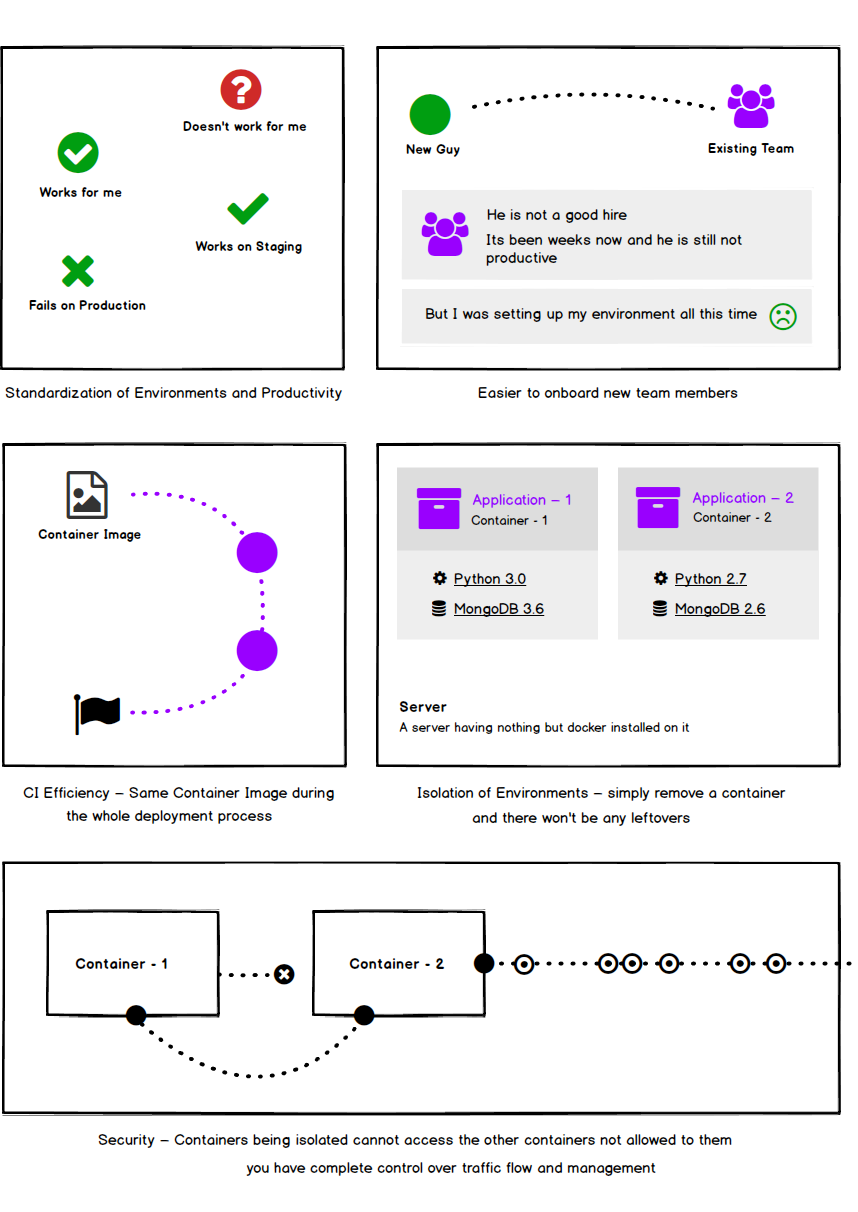
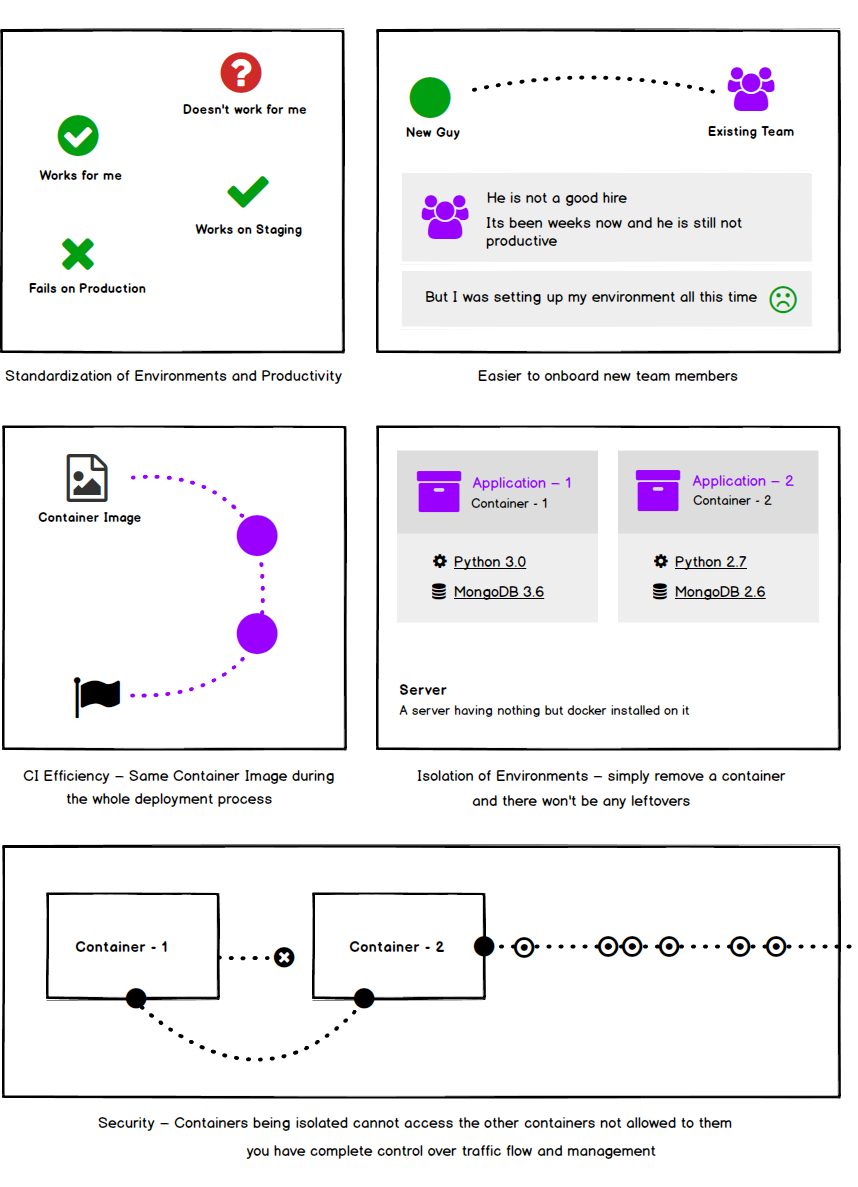
Update benefits image

diff --git a/README.md b/README.md
@@ -79,7 +79,9 @@ Docker gives you the ability to snapshot the OS into a shared image, and makes i
 
 * **Easier On-boarding** – Docker makes it easier to on-board the new team members in a sense that they do not have to spend days or weeks trying to setup the project before looking into it. All they have to do is install `git` and `docker` on their machine and get on to gaining the business and domain knowledge and be productive.
 
-![](./images/benefits.png)
+<p align="center">
+    <img src="./images/benefits.png" />
+</p>
 
 * **CI Efficiency** – Docker helps you improve the efficacy in your CI process. It lets you share the same image between the different stages of the CI process e.g. the image that was created on a QA server could be used on the staging and then on the production; thus reducing the deployment time. Apart from this, the created images are tagged (similar to git for example) and then, lets say, if things go wrong it is easier to rollback to last release/deployment.
 
